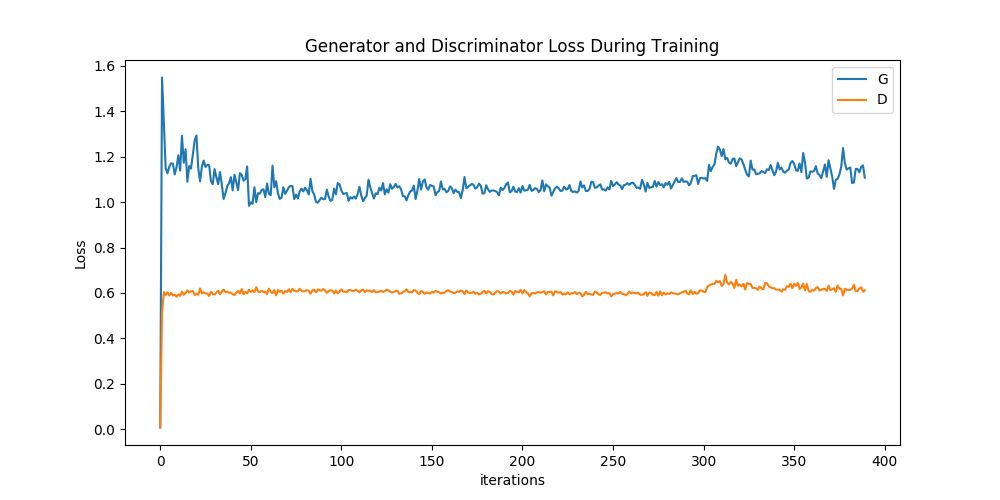
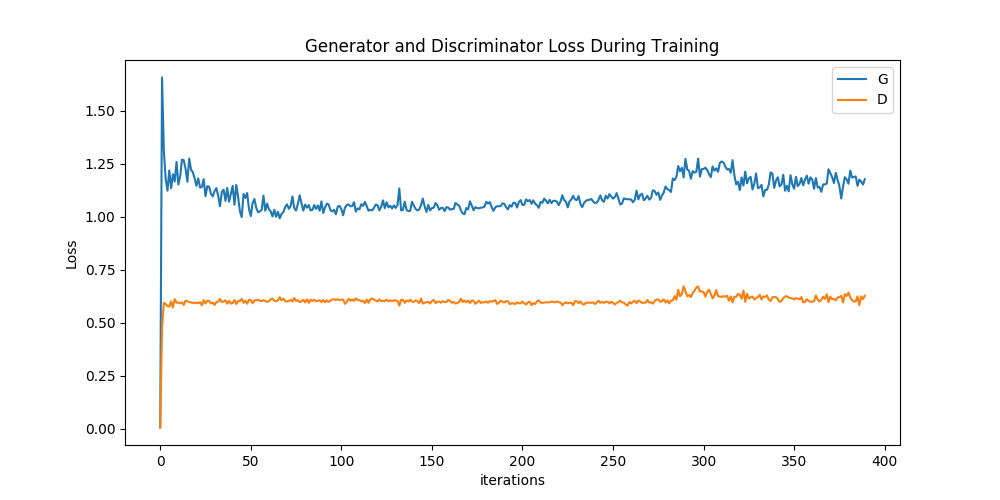
Modif : IT

diff --git a/W3_IT_gan0.45/gan.py b/W3_IT_gan0.45/gan.py
@@ -2,7 +2,6 @@ import argparse
 import os
 import numpy as np
 import math
-import itertools
 
 import torchvision.transforms as transforms
 from torchvision.utils import save_image
@@ -21,23 +20,23 @@ sys.path.append("../")#../../GAN-SDPC/
 from SimpsonsDataset import SimpsonsDataset,FastSimpsonsDataset
 import matplotlib.pyplot as plt
 import time
+import random
 
 parser = argparse.ArgumentParser()
 parser.add_argument("--n_epochs", type=int, default=1000, help="number of epochs of training")
 parser.add_argument("--batch_size", type=int, default=256, help="size of the batches")
-parser.add_argument("--lrD", type=float, default=0.0004, help="adam: learning rate for D")
-parser.add_argument("--lrG", type=float, default=0.0004, help="adam: learning rate for G")
+parser.add_argument("--lrG", type=float, default=0.0004, help="adam: learning rate")
+parser.add_argument("--lrD", type=float, default=0.0004, help="adam: learning rate")
 parser.add_argument("--eps", type=float, default=0.00005, help="batchnorm: espilon for numerical stability")
 parser.add_argument("--b1", type=float, default=0.5, help="adam: decay of first order momentum of gradient")
 parser.add_argument("--b2", type=float, default=0.999, help="adam: decay of first order momentum of gradient")
 parser.add_argument("--n_cpu", type=int, default=8, help="number of cpu threads to use during batch generation")
-parser.add_argument("--n_gpu", type=int, default=1, help="number of gpu use during batch generation")
-parser.add_argument("--latent_dim", type=int, default=100, help="dimensionality of the latent code")
+parser.add_argument("--latent_dim", type=int, default=100, help="dimensionality of the latent space")
 parser.add_argument("--img_size", type=int, default=32, help="size of each image dimension")
 parser.add_argument("--channels", type=int, default=3, help="number of image channels")
-parser.add_argument("--sample_interval", type=int, default=4000, help="interval between image sampling")
+parser.add_argument("--sample_interval", type=int, default=4000, help="interval betwen image samples")
 parser.add_argument("--sample_path", type=str, default='images')
-parser.add_argument("--model_save_interval", type=int, default=40000, help="interval between image sampling")
+parser.add_argument("--model_save_interval", type=int, default=100000, help="interval between image sampling")
 parser.add_argument('--model_save_path', type=str, default='models')
 opt = parser.parse_args()
 print(opt)
@@ -52,64 +51,29 @@ img_shape = (opt.channels, opt.img_size, opt.img_size)
 
 cuda = True if torch.cuda.is_available() else False
 
-
-def reparameterization(mu, logvar):
-	std = torch.exp(logvar / 2)
-	sampled_z = Variable(Tensor(np.random.normal(0, 1, (mu.size(0), opt.latent_dim))))
-	z = sampled_z * std + mu
-	return z
-
-
-class Encoder(nn.Module):
+class Generator(nn.Module):
 	def __init__(self):
-		super(Encoder, self).__init__()
+		super(Generator, self).__init__()
+
+		def block(in_feat, out_feat, normalize=True):
+			layers = [nn.Linear(in_feat, out_feat)]
+			if normalize:
+				layers.append(nn.BatchNorm1d(out_feat, opt.eps))
+			layers.append(nn.LeakyReLU(0.2, inplace=True))
+			return layers
 
 		self.model = nn.Sequential(
-			nn.Linear(int(np.prod(img_shape)), 512),
-			nn.LeakyReLU(0.2, inplace=True),
-			nn.Linear(512, 512),
-			nn.BatchNorm1d(512, opt.eps),
-			nn.LeakyReLU(0.2, inplace=True),
-		)
-
-		self.mu = nn.Linear(512, opt.latent_dim)
-		self.logvar = nn.Linear(512, opt.latent_dim)
-
-	def forward(self, img):
-		img_flat = img.view(img.shape[0], -1)
-		
-		if img_flat.is_cuda and opt.n_gpu > 1:
-			x = nn.parallel.data_parallel(self.model, img_flat, range(opt.n_gpu))
-		else:
-			x = self.model(img_flat)
-			
-		mu = self.mu(x)
-		logvar = self.logvar(x)	
-		z = reparameterization(mu, logvar)
-		return z
-
-
-class Decoder(nn.Module):
-	def __init__(self):
-		super(Decoder, self).__init__()
-
-		self.model = nn.Sequential(
-			nn.Linear(opt.latent_dim, 512),
-			nn.LeakyReLU(0.2, inplace=True),
-			nn.Linear(512, 512),
-			nn.BatchNorm1d(512, opt.eps),
-			nn.LeakyReLU(0.2, inplace=True),
-			nn.Linear(512, int(np.prod(img_shape))),
-			nn.Tanh(),
+			*block(opt.latent_dim, 128, normalize=False),
+			*block(128, 256),
+			*block(256, 512),
+			*block(512, 1024),
+			nn.Linear(1024, int(np.prod(img_shape))),
+			nn.Tanh()
 		)
 
 	def forward(self, z):
-		if z.is_cuda and opt.n_gpu > 1:
-			img_flat = nn.parallel.data_parallel(self.model, z, range(opt.n_gpu))
-		else:
-			img_flat = self.model(z)
-			
-		img = img_flat.view(img_flat.shape[0], *img_shape)
+		img = self.model(z)
+		img = img.view(img.size(0), *img_shape)
 		return img
 
 
@@ -118,7 +82,7 @@ class Discriminator(nn.Module):
 		super(Discriminator, self).__init__()
 
 		self.model = nn.Sequential(
-			nn.Linear(opt.latent_dim, 512),
+			nn.Linear(int(np.prod(img_shape)), 512),
 			nn.LeakyReLU(0.2, inplace=True),
 			nn.Linear(512, 256),
 			nn.LeakyReLU(0.2, inplace=True),
@@ -126,53 +90,35 @@ class Discriminator(nn.Module):
 			nn.Sigmoid(),
 		)
 
-	def forward(self, z):
-		if z.is_cuda and opt.n_gpu > 1:
-			validity = nn.parallel.data_parallel(self.model, z, range(opt.n_gpu))
-		else:
-			validity = self.model(z)
-		
-		#validity = self.model(z)
+	def forward(self, img):
+		img_flat = img.view(img.size(0), -1)
+		validity = self.model(img_flat)
+
 		return validity
 
 
-# Use binary cross-entropy loss
+# Loss function
 adversarial_loss = torch.nn.BCELoss()
-pixelwise_loss = torch.nn.L1Loss()
 
 # Initialize generator and discriminator
-encoder = Encoder()
-decoder = Decoder()
+generator = Generator()
 discriminator = Discriminator()
 
 if cuda:
-	encoder.cuda()
-	decoder.cuda()
+	generator.cuda()
 	discriminator.cuda()
 	adversarial_loss.cuda()
-	pixelwise_loss.cuda()
 
 # Configure data loader
 transformations = transforms.Compose([transforms.ToTensor(),transforms.Normalize([0.5,0.5,0.5], [0.5,0.5,0.5])])
-dataset = FastSimpsonsDataset("../../cropped/cp/",opt.img_size,opt.img_size,transformations) #../../../Dataset/cropped/
+dataset = FastSimpsonsDataset("../../cropped/cp/",opt.img_size,opt.img_size,transformations) #../../../Dataset/cropped/  /var/lib/vz/data/g14006889/cropped/cp/
 dataloader = torch.utils.data.DataLoader(dataset, batch_size=opt.batch_size, shuffle=True)
 
 # Optimizers
-optimizer_G = torch.optim.Adam(
-	itertools.chain(encoder.parameters(), decoder.parameters()), lr=opt.lrG, betas=(opt.b1, opt.b2)
-)
+optimizer_G = torch.optim.Adam(generator.parameters(), lr=opt.lrG, betas=(opt.b1, opt.b2))
 optimizer_D = torch.optim.Adam(discriminator.parameters(), lr=opt.lrD, betas=(opt.b1, opt.b2))
 
 Tensor = torch.cuda.FloatTensor if cuda else torch.FloatTensor
-
-
-def sample_image(n_row, batches_done):
-	"""Saves a grid of generated digits"""
-	# Sample noise
-	z = Variable(Tensor(np.random.normal(0, 1, (n_row ** 2, opt.latent_dim))))
-	gen_imgs = decoder(z)
-	save_image(gen_imgs.data, "%s/%d.png" % (opt.sample_path, batches_done), nrow=n_row, normalize=True)
-
 
 # ----------
 #  Training
@@ -194,57 +140,57 @@ for epoch in range(opt.n_epochs):
 		t_batch = time.time()
 		
 		# Adversarial ground truths
-		valid_smooth = Variable(Tensor(imgs.shape[0], 1).fill_(float(np.random.uniform(0.7, 1.0, 1))), requires_grad=False)
+		valid_smooth = Variable(Tensor(imgs.shape[0], 1).fill_(float(np.random.uniform(0.9, 1.0, 1))), requires_grad=False)
 		valid = Variable(Tensor(imgs.size(0), 1).fill_(1), requires_grad=False)
 		fake = Variable(Tensor(imgs.size(0), 1).fill_(0), requires_grad=False)
-		
+		#fake = Variable(Tensor(imgs.size(0), 1).fill_(float(np.random.uniform(0.0, 0.3, 1))), requires_grad=False)
+		#valid = Variable(Tensor(imgs.size(0), 1).uniform_(0.4, 1.0), requires_grad=False)
+		#fake = Variable(Tensor(imgs.size(0), 1).uniform_(0.0, 0.6), requires_grad=False)
+
 		# Configure input
 		#rand = Tensor(imgs.shape).normal_(0.0, 0.25)
 		#real_imgs = imgs.type(Tensor) + rand
 		real_imgs = Variable(imgs.type(Tensor))
 		
-		# Generate a batch of images
-		encoded_imgs = encoder(real_imgs)
-
-		# Sample noise as discriminator ground truth
+		# Sample noise as generator input
 		z = Variable(Tensor(np.random.normal(0, 1, (imgs.shape[0], opt.latent_dim))))
+
+		# Generate a batch of images
+		gen_imgs = generator(z)
 		
 		# Current scores
-		current_d_x = sum(discriminator(z)).item()/imgs.size(0)
-		current_d_g_z = sum(discriminator(encoded_imgs.detach())).item()/imgs.size(0)
-
+		current_d_x = sum(discriminator(real_imgs.detach())).item()/imgs.size(0)
+		current_d_g_z = sum(discriminator(gen_imgs.detach())).item()/imgs.size(0)
+		
 		# -----------------
 		#  Train Generator
 		# -----------------
 		
-		if current_d_g_z < 0.40 or epoch == 0:
-			decoded_imgs = decoder(encoded_imgs)
-			
+		if current_d_g_z < 0.45 or epoch == 0:
 			optimizer_G.zero_grad()
 
 			# Loss measures generator's ability to fool the discriminator
-			g_loss = 0.001 * adversarial_loss(discriminator(encoded_imgs), valid) + 0.999 * pixelwise_loss(
-				decoded_imgs, real_imgs
-			)
+			g_loss = adversarial_loss(discriminator(gen_imgs), valid)
 
 			g_loss.backward()
 			optimizer_G.step()
-		
+
 		# ---------------------
 		#  Train Discriminator
 		# ---------------------
 		
-		if current_d_g_z > 0.40 or current_d_x < 0.60 or epoch == 0:
+		if current_d_g_z > 0.45 or current_d_x < 0.55 or epoch == 0:
 			optimizer_D.zero_grad()
 
 			# Measure discriminator's ability to classify real from generated samples
-			real_loss = adversarial_loss(discriminator(z), valid_smooth) 
-			fake_loss = adversarial_loss(discriminator(encoded_imgs.detach()), fake)
-			d_loss = 0.5 * (real_loss + fake_loss)
+			real_loss = adversarial_loss(discriminator(real_imgs), valid_smooth)
+			fake_loss = adversarial_loss(discriminator(gen_imgs.detach()), fake)
+			
+			d_loss = (real_loss + fake_loss) / 2
 
 			d_loss.backward()
 			optimizer_D.step()
-		
+
 		print(
 			"[Epoch %d/%d] [Batch %d/%d] [D loss: %f] [G loss: %f] [Time: %fs]"
 			% (epoch, opt.n_epochs, i, len(dataloader), d_loss.item(), g_loss.item(), time.time()-t_batch)
@@ -252,11 +198,13 @@ for epoch in range(opt.n_epochs):
 
 		batches_done = epoch * len(dataloader) + i
 		if batches_done % opt.sample_interval == 0:
-			sample_image(n_row=5, batches_done=batches_done)
-			
+			save_image(gen_imgs.data[:25], "%s/%d.png" % (opt.sample_path, batches_done), nrow=5, normalize=True)
+		
+		
 		# Save Losses for plotting later
 		g_losses.append(g_loss.item())
 		d_losses.append(d_loss.item())
+		#print("INFO : ",sum(discriminator(real_imgs.detach())).item()/imgs.size(0))
 		d_x.append(current_d_x)
 		d_g_z.append(current_d_g_z)
 		if batches_done % 100 == 0:
@@ -272,22 +220,18 @@ for epoch in range(opt.n_epochs):
 		if batches_done % opt.model_save_interval == 0:
 			num = str(int(batches_done / opt.model_save_interval))
 			torch.save(discriminator, opt.model_save_path+"/"+num+"_D.pt")
-			torch.save(encoder, opt.model_save_path+"/"+num+"_encoder.pt")
-			torch.save(decoder, opt.model_save_path+"/"+num+"_decoder.pt")
-
+			torch.save(generator, opt.model_save_path+"/"+num+"_G.pt")
+	
 	print("[Epoch Time: ",time.time()-t_epoch,"s]")
 
 print("[Total Time: ",time.time()-t_total,"s]")
 
 torch.save(discriminator, opt.model_save_path+"/last_D.pt")
-torch.save(encoder, opt.model_save_path+"/last_encoder.pt")
-torch.save(decoder, opt.model_save_path+"/last_decoder.pt")
+torch.save(generator, opt.model_save_path+"/last_G.pt")
 
-"""encoder = torch.load("encoder.pt")
-decoder = torch.load("decoder.pt")
+"""G = torch.load("G.pt")
 D = torch.load("D.pt")
-print(encoder)
-print(decoder)
+print(G)
 print(D)"""
 
 

diff --git a/W3_IT_gan/gan.py b/W3_IT_gan/gan.py
@@ -166,7 +166,7 @@ for epoch in range(opt.n_epochs):
 		#  Train Generator
 		# -----------------
 		
-		if current_d_g_z < 0.45 or epoch == 0:
+		if current_d_g_z < 0.3 or epoch == 0:
 			optimizer_G.zero_grad()
 
 			# Loss measures generator's ability to fool the discriminator
@@ -179,7 +179,7 @@ for epoch in range(opt.n_epochs):
 		#  Train Discriminator
 		# ---------------------
 		
-		if current_d_g_z > 0.45 or current_d_x < 0.55 or epoch == 0:
+		if current_d_g_z > 0.3 or current_d_x < 0.7 or epoch == 0:
 			optimizer_D.zero_grad()
 
 			# Measure discriminator's ability to classify real from generated samples
